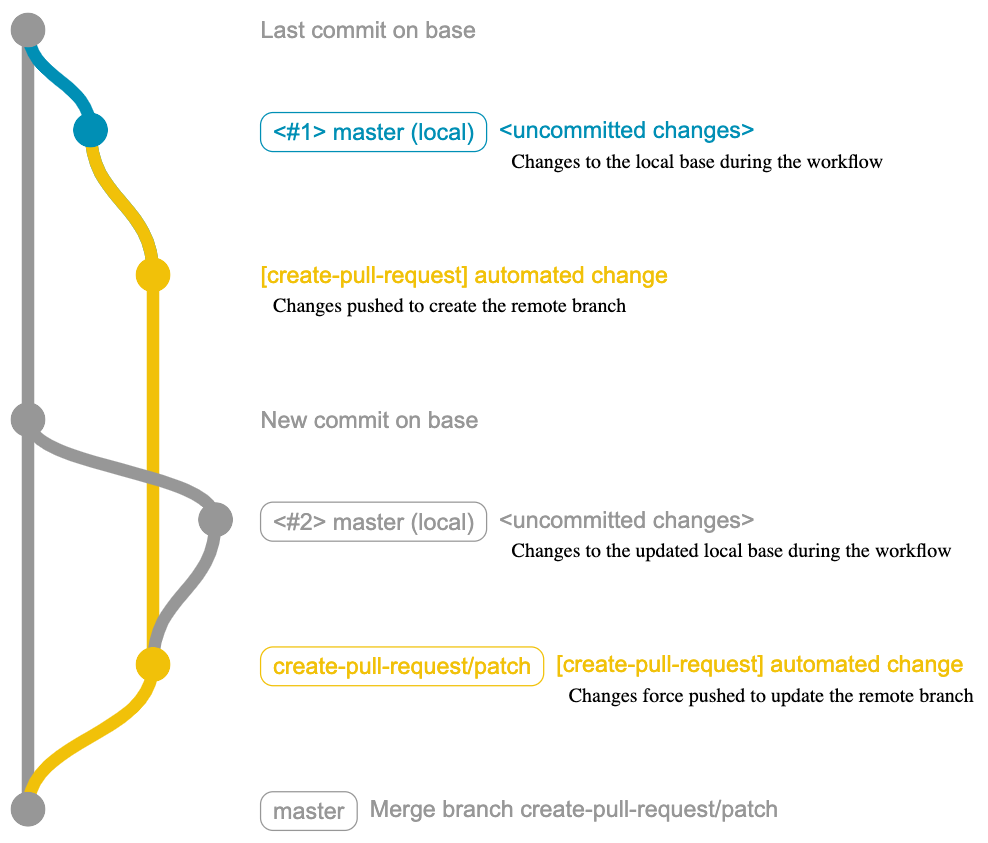
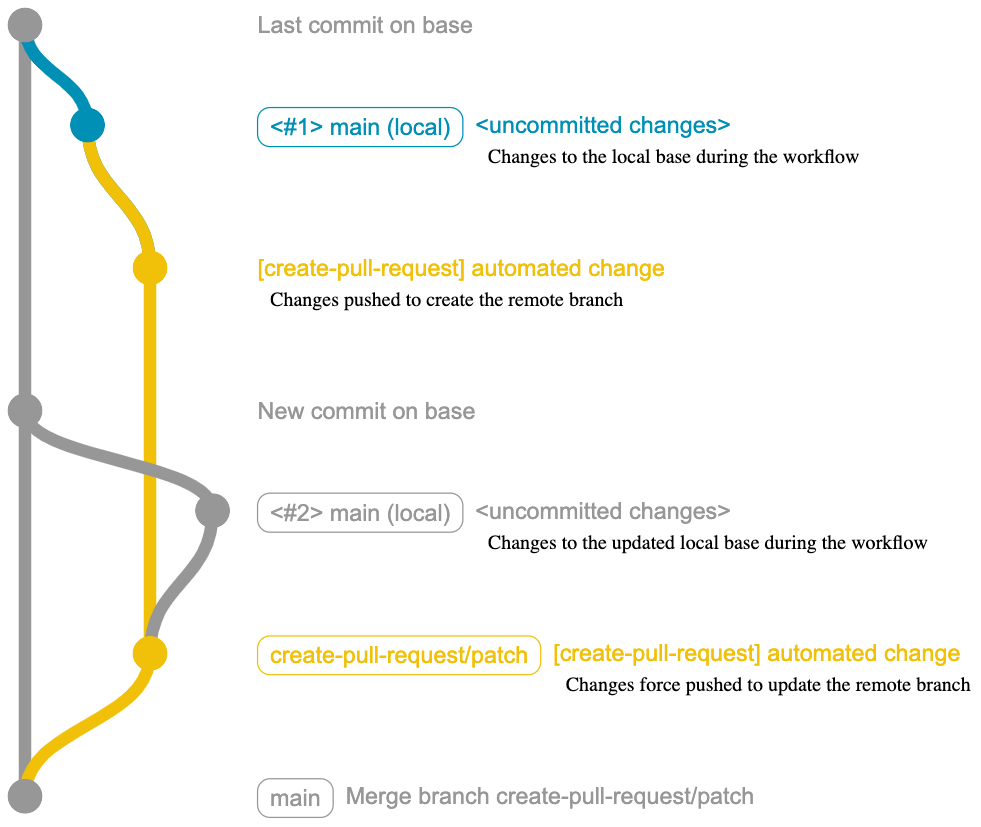
docs: update default branch

diff --git a/docs/assets/cpr-gitgraph.htm b/docs/assets/cpr-gitgraph.htm
@@ -29,37 +29,37 @@
             orientation: "vertical-reverse"
         });
 
-        const master = gitgraph.branch("master");
-        master.commit("Last commit on base");
-        const localMaster = gitgraph.branch("<#1> master (local)");
-        localMaster.commit({
+        const main = gitgraph.branch("main");
+        main.commit("Last commit on base");
+        const localMain = gitgraph.branch("<#1> main (local)");
+        localMain.commit({
             subject: "<uncommitted changes>",
             body: "Changes to the local base during the workflow",
         })
         const remotePatch = gitgraph.branch("create-pull-request/patch");
         remotePatch.merge({
-            branch: localMaster,
+            branch: localMain,
             commitOptions: {
                 subject: "[create-pull-request] automated change",
                 body: "Changes pushed to create the remote branch",
             },
         });
-        master.commit("New commit on base");
+        main.commit("New commit on base");
 
-        const localMaster2 = gitgraph.branch("<#2> master (local)");
-        localMaster2.commit({
+        const localMain2 = gitgraph.branch("<#2> main (local)");
+        localMain2.commit({
             subject: "<uncommitted changes>",
             body: "Changes to the updated local base during the workflow",
         })
         remotePatch.merge({
-            branch: localMaster2,
+            branch: localMain2,
             commitOptions: {
                 subject: "[create-pull-request] automated change",
                 body: "Changes force pushed to update the remote branch",
             },
         });
 
-        master.merge(remotePatch);
+        main.merge(remotePatch);
 
     </script>
 
